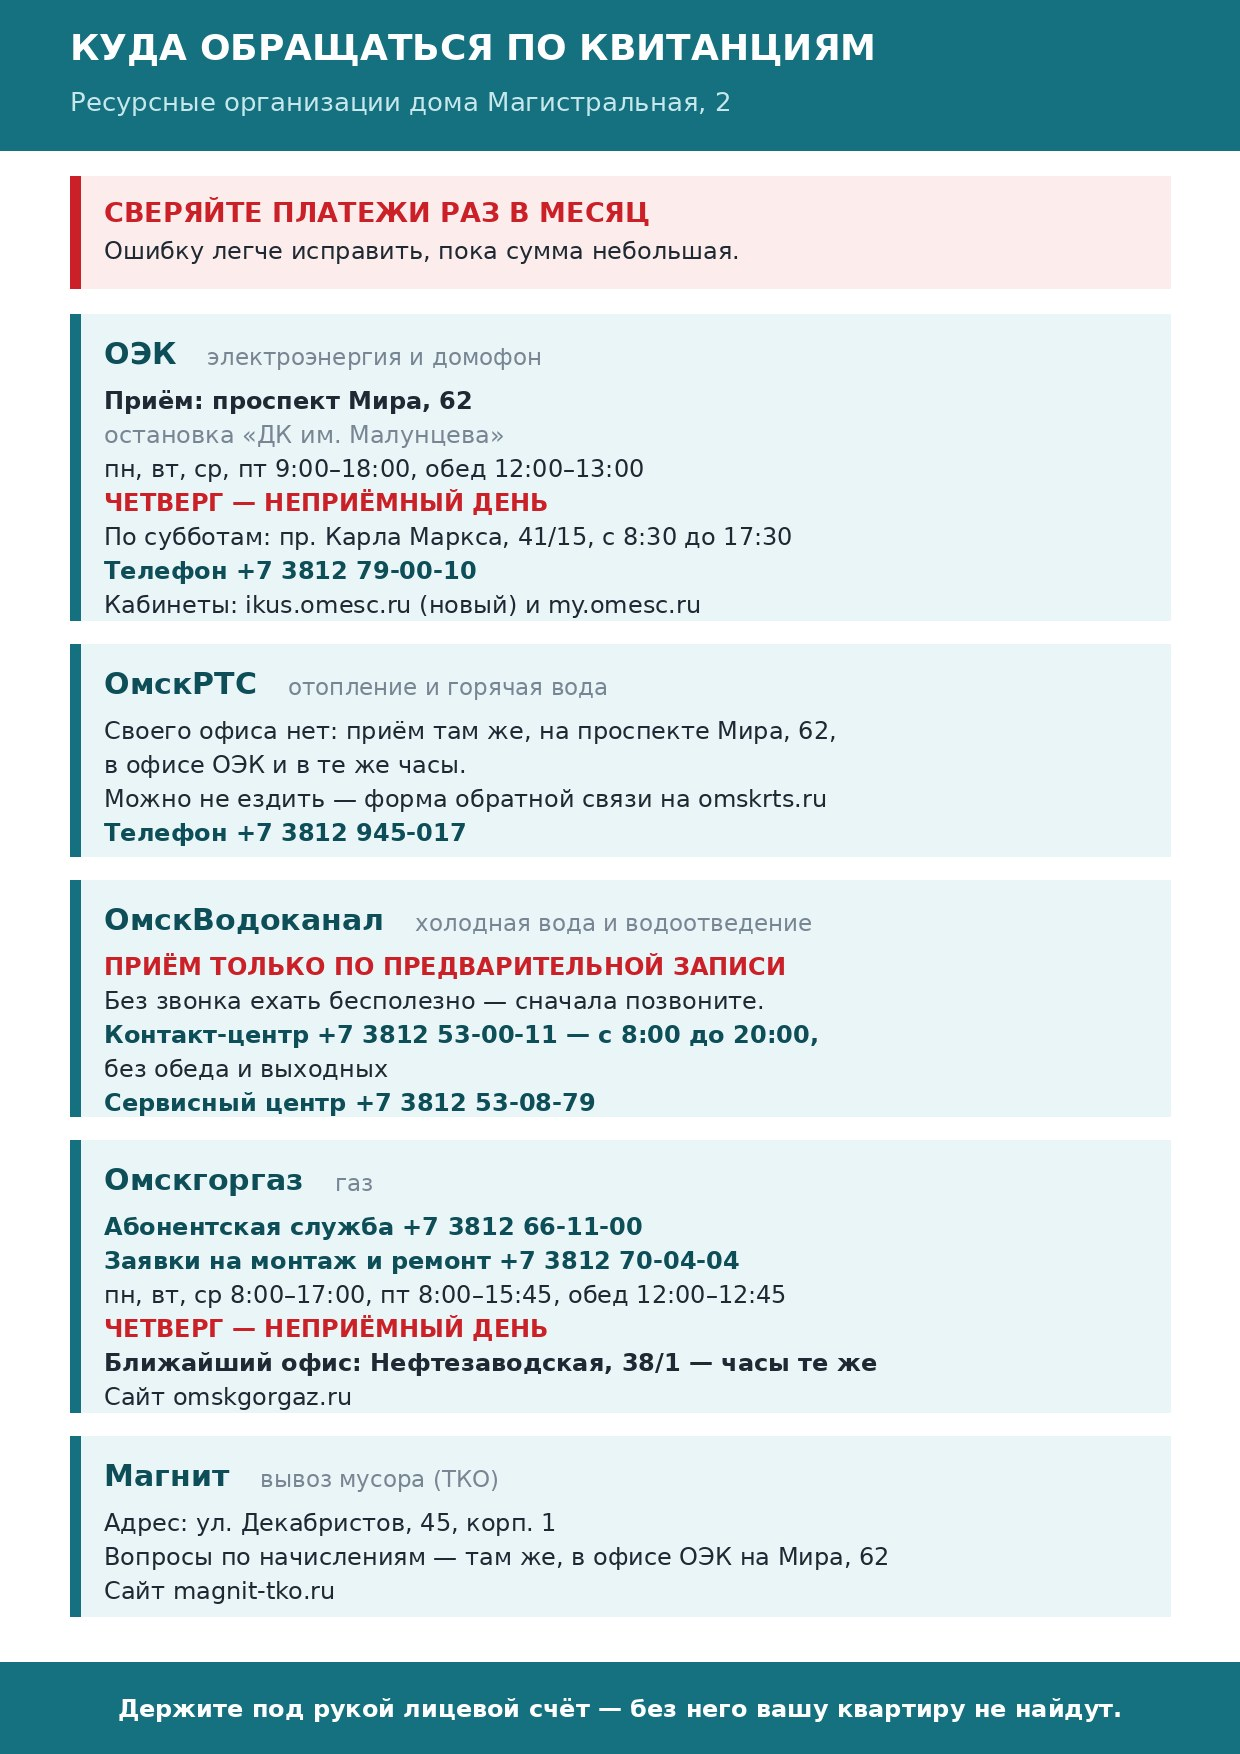
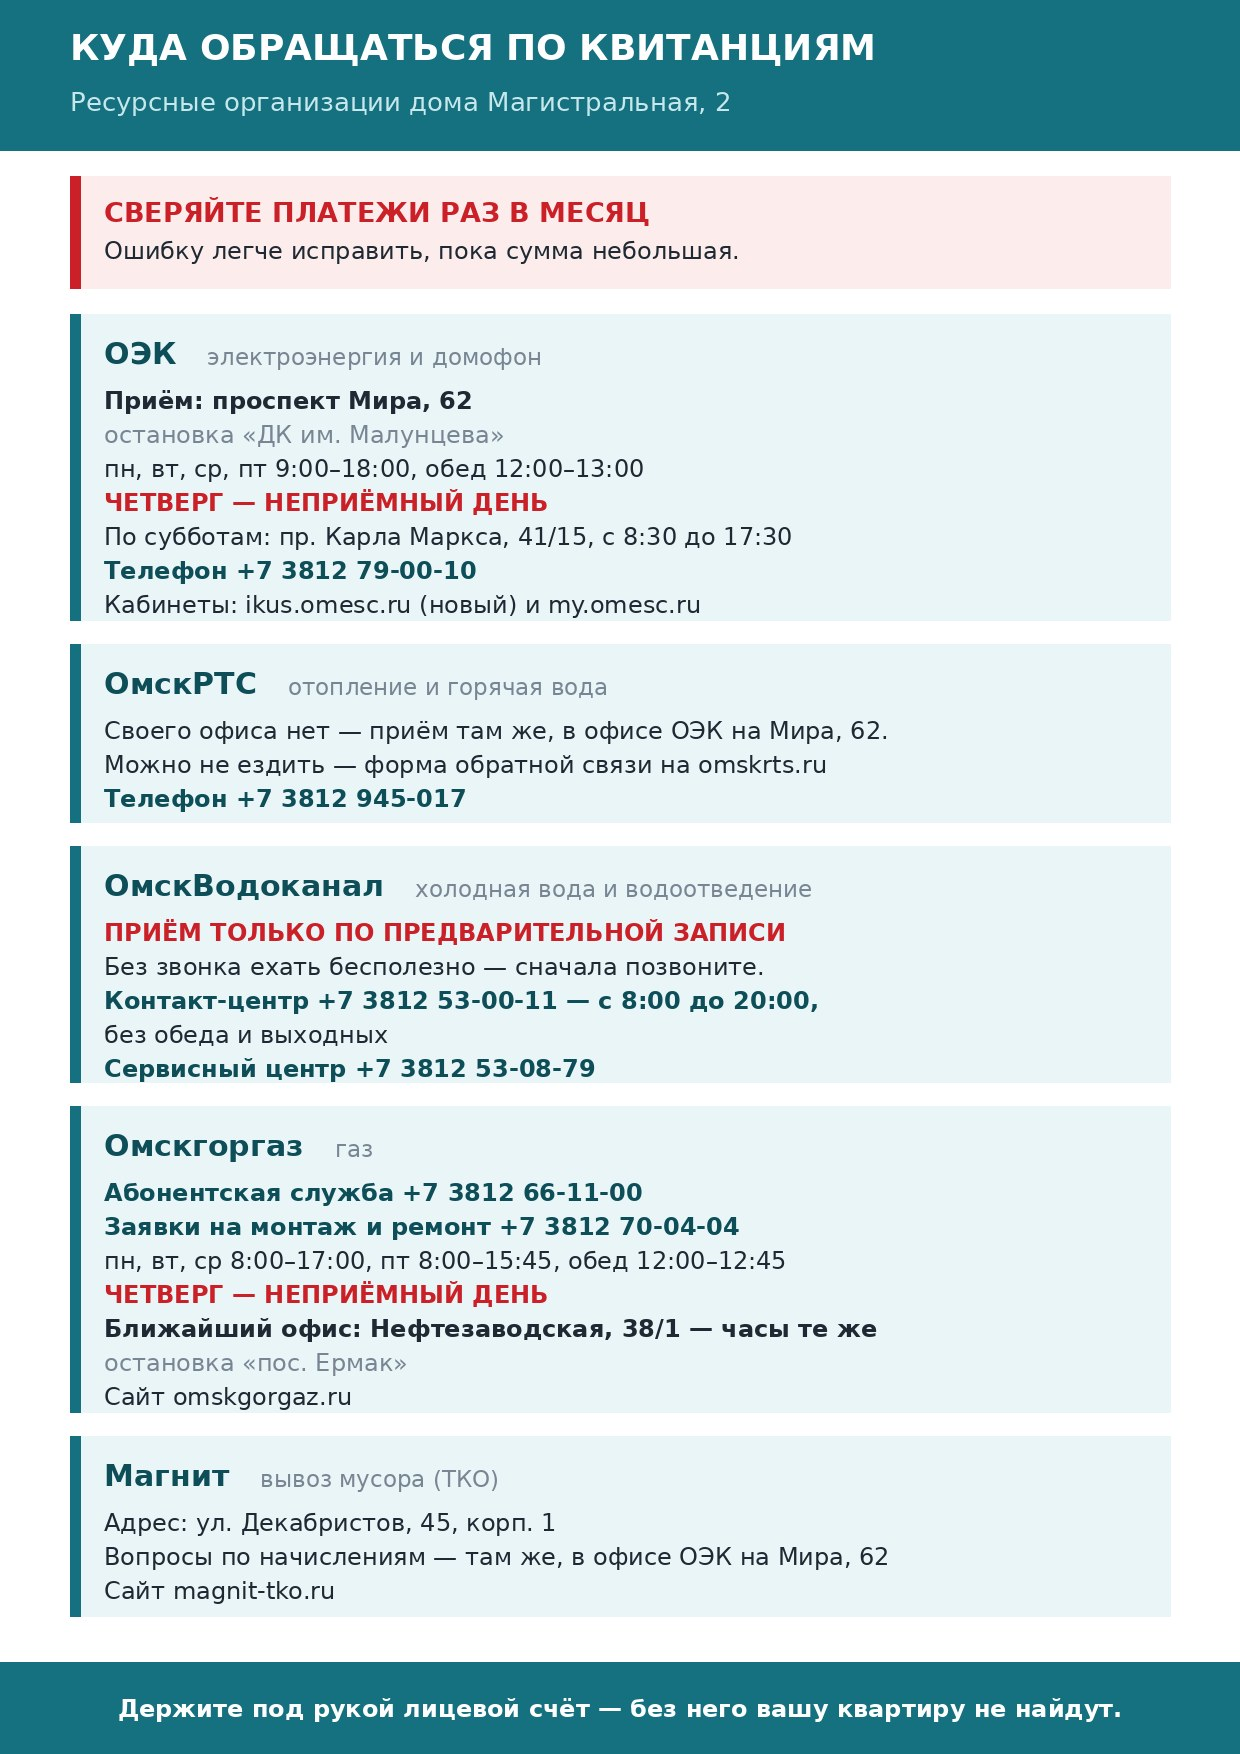
Памятка по ресурсникам: остановка у офиса Горгаза
Остановка «пос. Ермак» у Нефтезаводской, 38/1 — со слов председателя.
Теперь у обоих адресов в памятке указано, где выходить.

Claude-Session: https://claude.ai/code/session_01SicRex17FsgKWUCP5fdcWj

Changed region(s): [[0.0306, 0.4002, 0.7048, 0.8005]]

diff --git a/content/faq/resursniki.md b/content/faq/resursniki.md
@@ -39,7 +39,7 @@ order: 20
 Абонентская служба: +7 3812 66-11-00
 Заявки на монтажные и ремонтные работы: +7 3812 70-04-04
 Часы работы: пн, вт, ср с 8:00 до 17:00, пт с 8:00 до 15:45, обед с 12:00 до 12:45. <b>Четверг — неприёмный день.</b>
-Ближайший офис: <b>Нефтезаводская, 38/1</b>. Часы приёма во всех филиалах одинаковые.
+Ближайший офис: <b>Нефтезаводская, 38/1</b> — остановка «пос. Ермак». Часы приёма во всех филиалах одинаковые.
 Сайт: <a href="https://www.omskgorgaz.ru/">omskgorgaz.ru</a>
 
 <b>🗑 Магнит — вывоз мусора (ТКО)</b>
